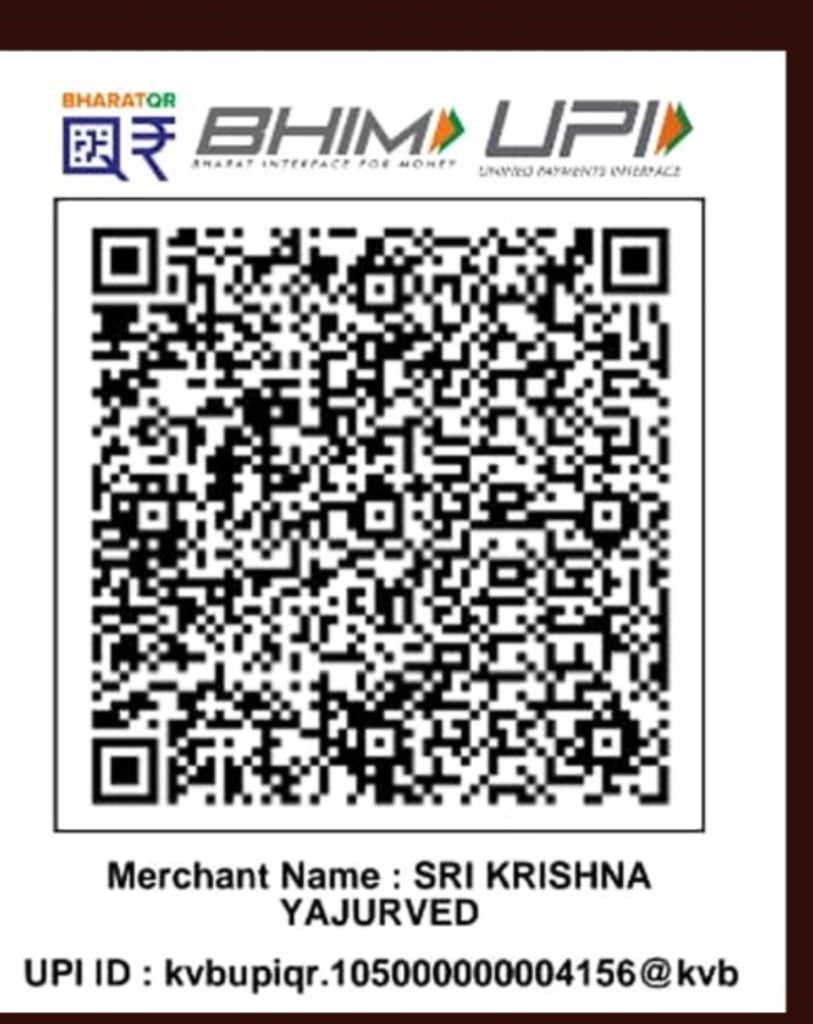
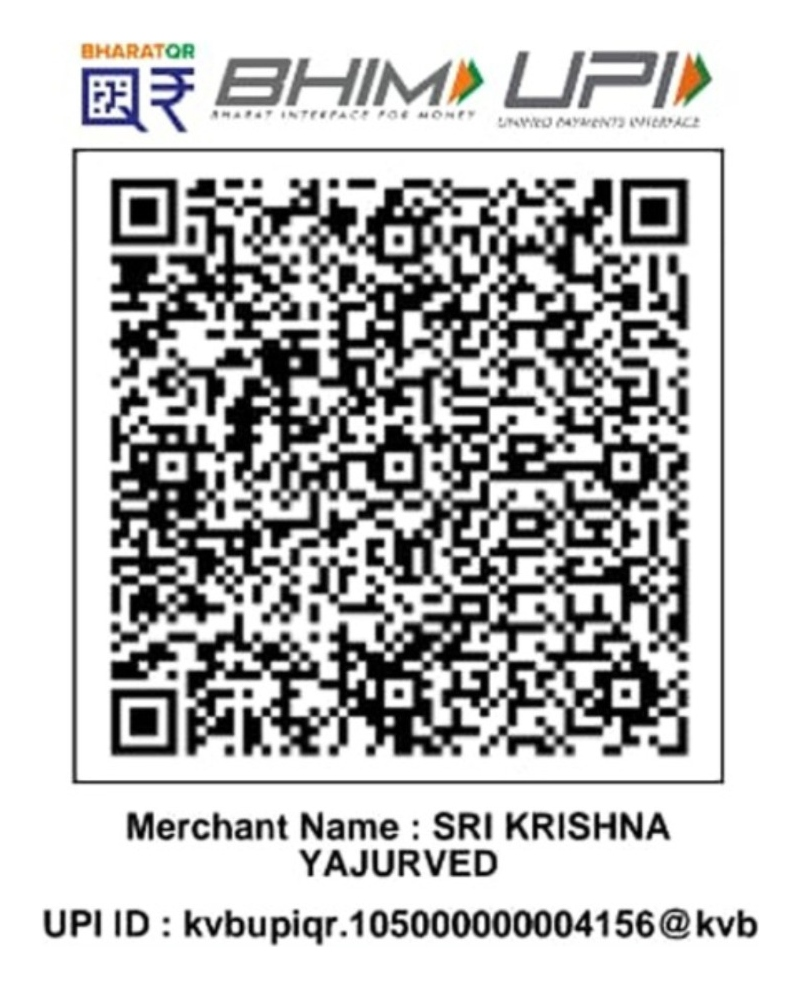
fix(upi-qr): clean dark photo borders, center QR image symmetrically and perfect card alignment

diff --git a/donate.html b/donate.html
@@ -232,20 +232,20 @@
           <p style="font-size: 0.88rem; color: var(--text-secondary); margin-bottom: 10px;">
             Scan & Pay with any UPI App (GPay / PhonePe / BHIM / Paytm / KVB):
           </p>
-          <div style="display: inline-block; background: #fff; padding: 14px; border: 2px solid var(--primary-gold); border-radius: 8px; box-shadow: var(--shadow-sm);">
-            <img src="assets/images/trust_upi_qr.jpg" alt="Sri Krishna Yajur Veda Parayana Trust UPI QR Code" style="width: 200px; height: auto; display: block; margin: 0 auto; border-radius: 4px;">
-            <div style="font-size: 0.82rem; font-weight: bold; margin-top: 8px; color: var(--crimson-main); word-break: break-all;">
+          <div style="display: inline-flex; flex-direction: column; align-items: center; justify-content: center; background: #ffffff; padding: 18px 22px; border: 2px solid var(--primary-gold); border-radius: 10px; box-shadow: 0 4px 16px rgba(0,0,0,0.06); max-width: 280px; margin: 0 auto; box-sizing: border-box;">
+            <img src="assets/images/trust_upi_qr.jpg" alt="Sri Krishna Yajur Veda Parayana Trust UPI QR Code" style="width: 200px; height: auto; display: block; margin: 0 auto; border-radius: 6px;">
+            <div style="font-size: 0.82rem; font-weight: 700; margin-top: 10px; color: var(--crimson-main); word-break: break-all; letter-spacing: 0.2px; text-align: center;">
               UPI ID: kvbupiqr.105000000004156@kvb
             </div>
-            <div style="font-size: 0.75rem; color: var(--text-secondary); margin-top: 2px;">
+            <div style="font-size: 0.76rem; color: #555; margin-top: 4px; font-weight: 500; text-align: center;">
               Merchant: SRI KRISHNA YAJURVED
             </div>
-            <div style="margin-top: 10px; padding: 8px 12px; background: #fff8e6; border: 1px dashed var(--primary-gold); border-radius: 6px; font-size: 0.85rem; text-align: left;">
+            <div style="margin-top: 12px; padding: 10px 14px; background: #fff8e6; border: 1px dashed var(--primary-gold); border-radius: 6px; font-size: 0.85rem; text-align: left; width: 100%; box-sizing: border-box;">
               <div style="margin-bottom: 4px;">
                 <i class="fab fa-whatsapp" style="color: #25D366; font-size: 1.05rem;"></i> <strong>WhatsApp / Cell:</strong> <a href="https://wa.me/919442090377" target="_blank" style="color: var(--crimson-dark); font-weight: bold;">9442090377</a>
               </div>
               <div style="font-size: 0.76rem; color: var(--text-secondary);">
-                Send screenshot after payment for instant Prasad & 80G receipt dispatch.
+                Send screenshot after payment for instant Prasad &amp; 80G receipt dispatch.
               </div>
             </div>
           </div>

diff --git a/index.html b/index.html
@@ -864,10 +864,10 @@
 
           <div style="text-align: center;">
             <p style="font-size: 0.85rem; color: var(--text-secondary); margin-bottom: 12px;">Instant UPI Donation QR (Scan with GPay / PhonePe / Paytm / BHIM):</p>
-            <div style="display: inline-block; background: #fff; padding: 12px; border: 2px solid var(--primary-gold); border-radius: 8px; box-shadow: var(--shadow-sm);">
-              <img src="assets/images/trust_upi_qr.jpg" alt="Sri Krishna Yajur Veda Parayana Trust UPI QR Code" style="width: 190px; height: auto; display: block; margin: 0 auto; border-radius: 4px;">
-              <div style="font-size: 0.78rem; font-weight: bold; margin-top: 8px; color: var(--crimson-main); word-break: break-all;">UPI ID: kvbupiqr.105000000004156@kvb</div>
-              <div style="font-size: 0.72rem; color: var(--text-secondary); margin-top: 2px;">Merchant: SRI KRISHNA YAJURVED</div>
+            <div style="display: inline-flex; flex-direction: column; align-items: center; justify-content: center; background: #ffffff; padding: 16px 20px; border: 2px solid var(--primary-gold); border-radius: 10px; box-shadow: 0 4px 16px rgba(0,0,0,0.06); max-width: 260px; margin: 0 auto; box-sizing: border-box;">
+              <img src="assets/images/trust_upi_qr.jpg" alt="Sri Krishna Yajur Veda Parayana Trust UPI QR Code" style="width: 200px; height: auto; display: block; margin: 0 auto; border-radius: 6px;">
+              <div style="font-size: 0.82rem; font-weight: 700; margin-top: 10px; color: var(--crimson-main); word-break: break-all; letter-spacing: 0.2px; text-align: center;">UPI ID: kvbupiqr.105000000004156@kvb</div>
+              <div style="font-size: 0.76rem; color: #555; margin-top: 4px; font-weight: 500; text-align: center;">Merchant: SRI KRISHNA YAJURVED</div>
             </div>
           </div>
         </div>
